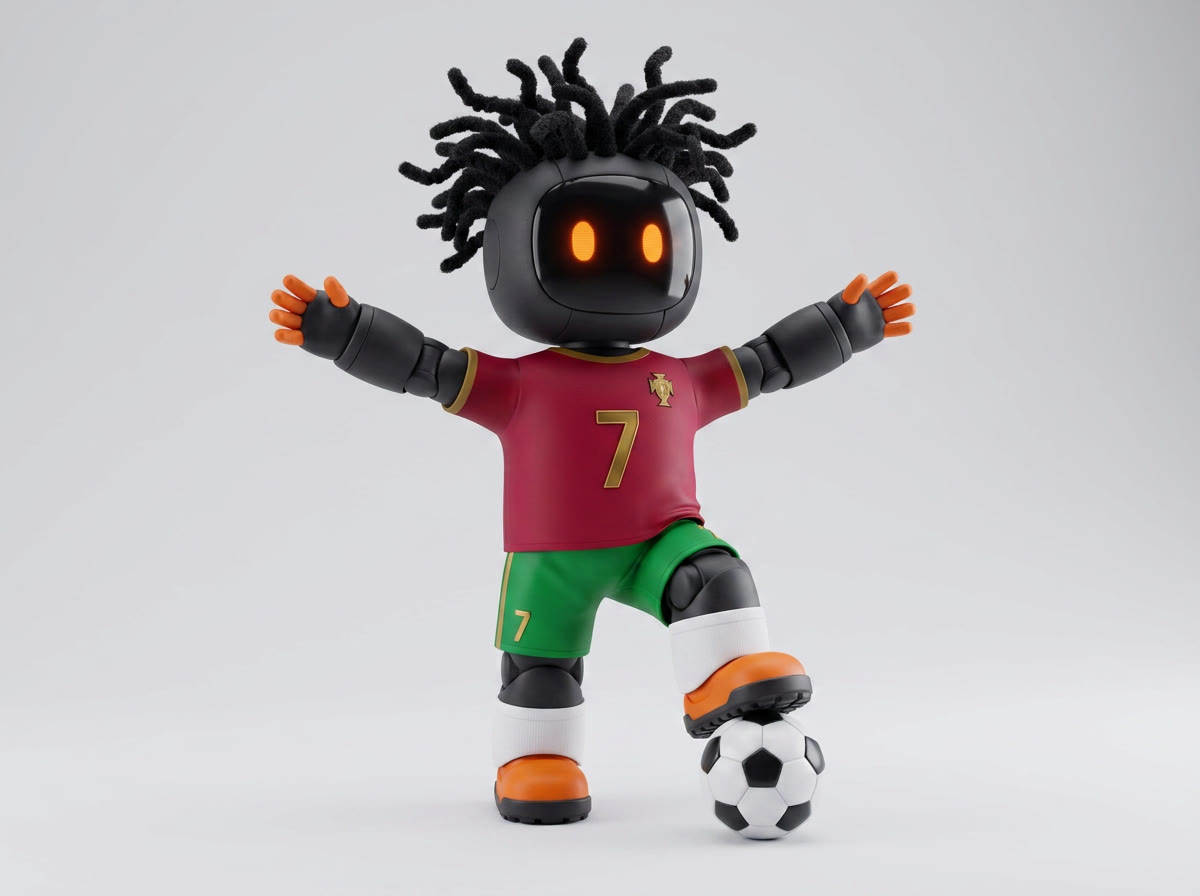
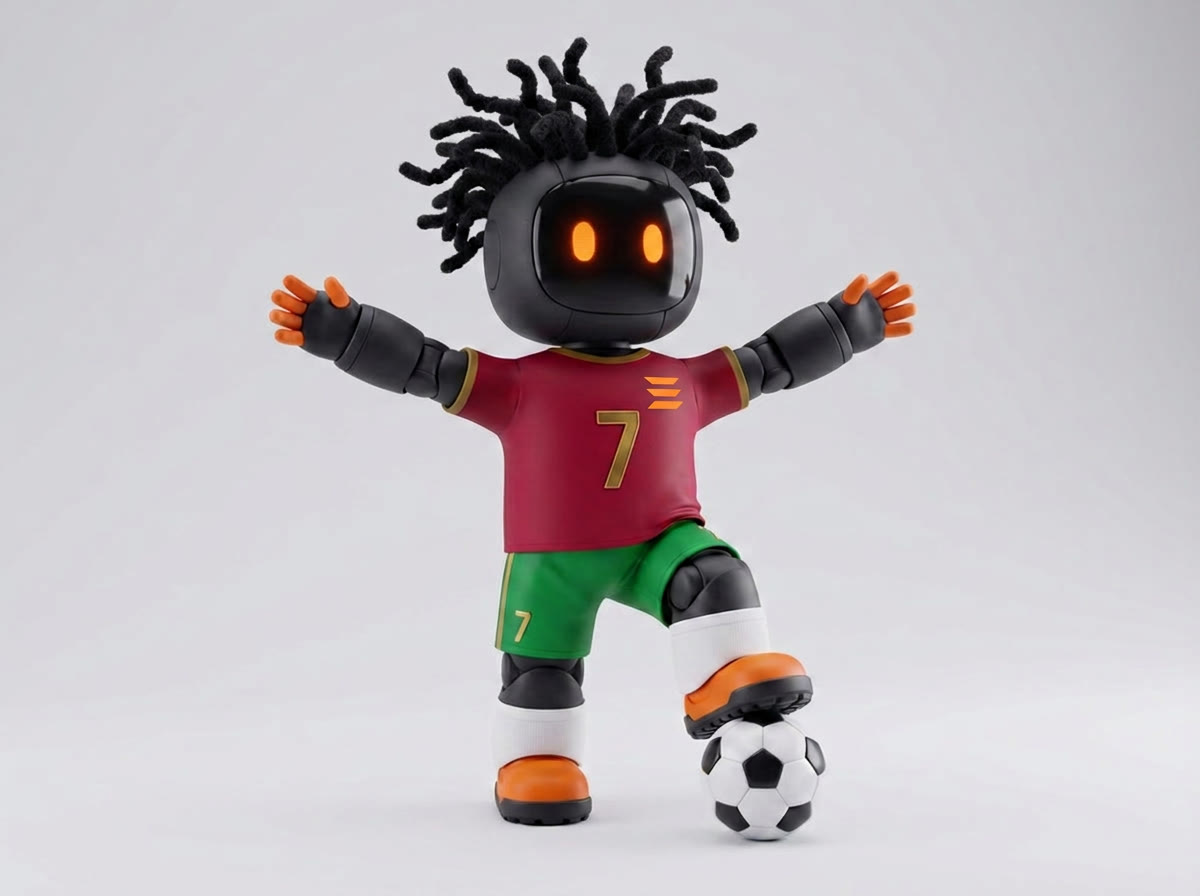
feat(go-bot): add triple-bar crest to Speed-BOT-7 kit
Swap the Speed-BOT-7 render for the version wearing the orange
triple-bar crest on the jersey chest, and update the fit list and alt
text to match. Drop the staged partner lockup reference file.

Claude-Session: https://claude.ai/code/session_01KGGmAGPAvwDXRZzCcmfcH9

diff --git a/go-bot/src/data/persona.ts b/go-bot/src/data/persona.ts
@@ -184,7 +184,7 @@ export const personaFeatures: PersonaFeature[] = [
 			'stadium. Shown as a concept for creator partnerships.',
 		fit: [
 			'Wild crown of black freeform twists — the signature',
-			'Crimson kit with gold trim and the number 7 on the chest',
+			'Crimson kit with gold trim, the number 7, and the orange triple-bar crest on the chest',
 			'Green shorts with a gold 7 on the leg',
 			'White socks into the signature orange boots',
 			'Match ball underfoot, celebration mode permanently on',
@@ -193,7 +193,7 @@ export const personaFeatures: PersonaFeature[] = [
 			src: '/assets/gobot/persona/speed-bot-7.jpg',
 			width: 1200,
 			height: 896,
-			alt: 'Speed-BOT-7 — Go-Bot with wild black freeform twists in a red number 7 soccer kit and green shorts, one boot on a soccer ball, arms spread wide',
+			alt: 'Speed-BOT-7 — Go-Bot with wild black freeform twists in a red number 7 soccer kit with the orange triple-bar crest and green shorts, one boot on a soccer ball, arms spread wide',
 		}],
 	},
 ];
